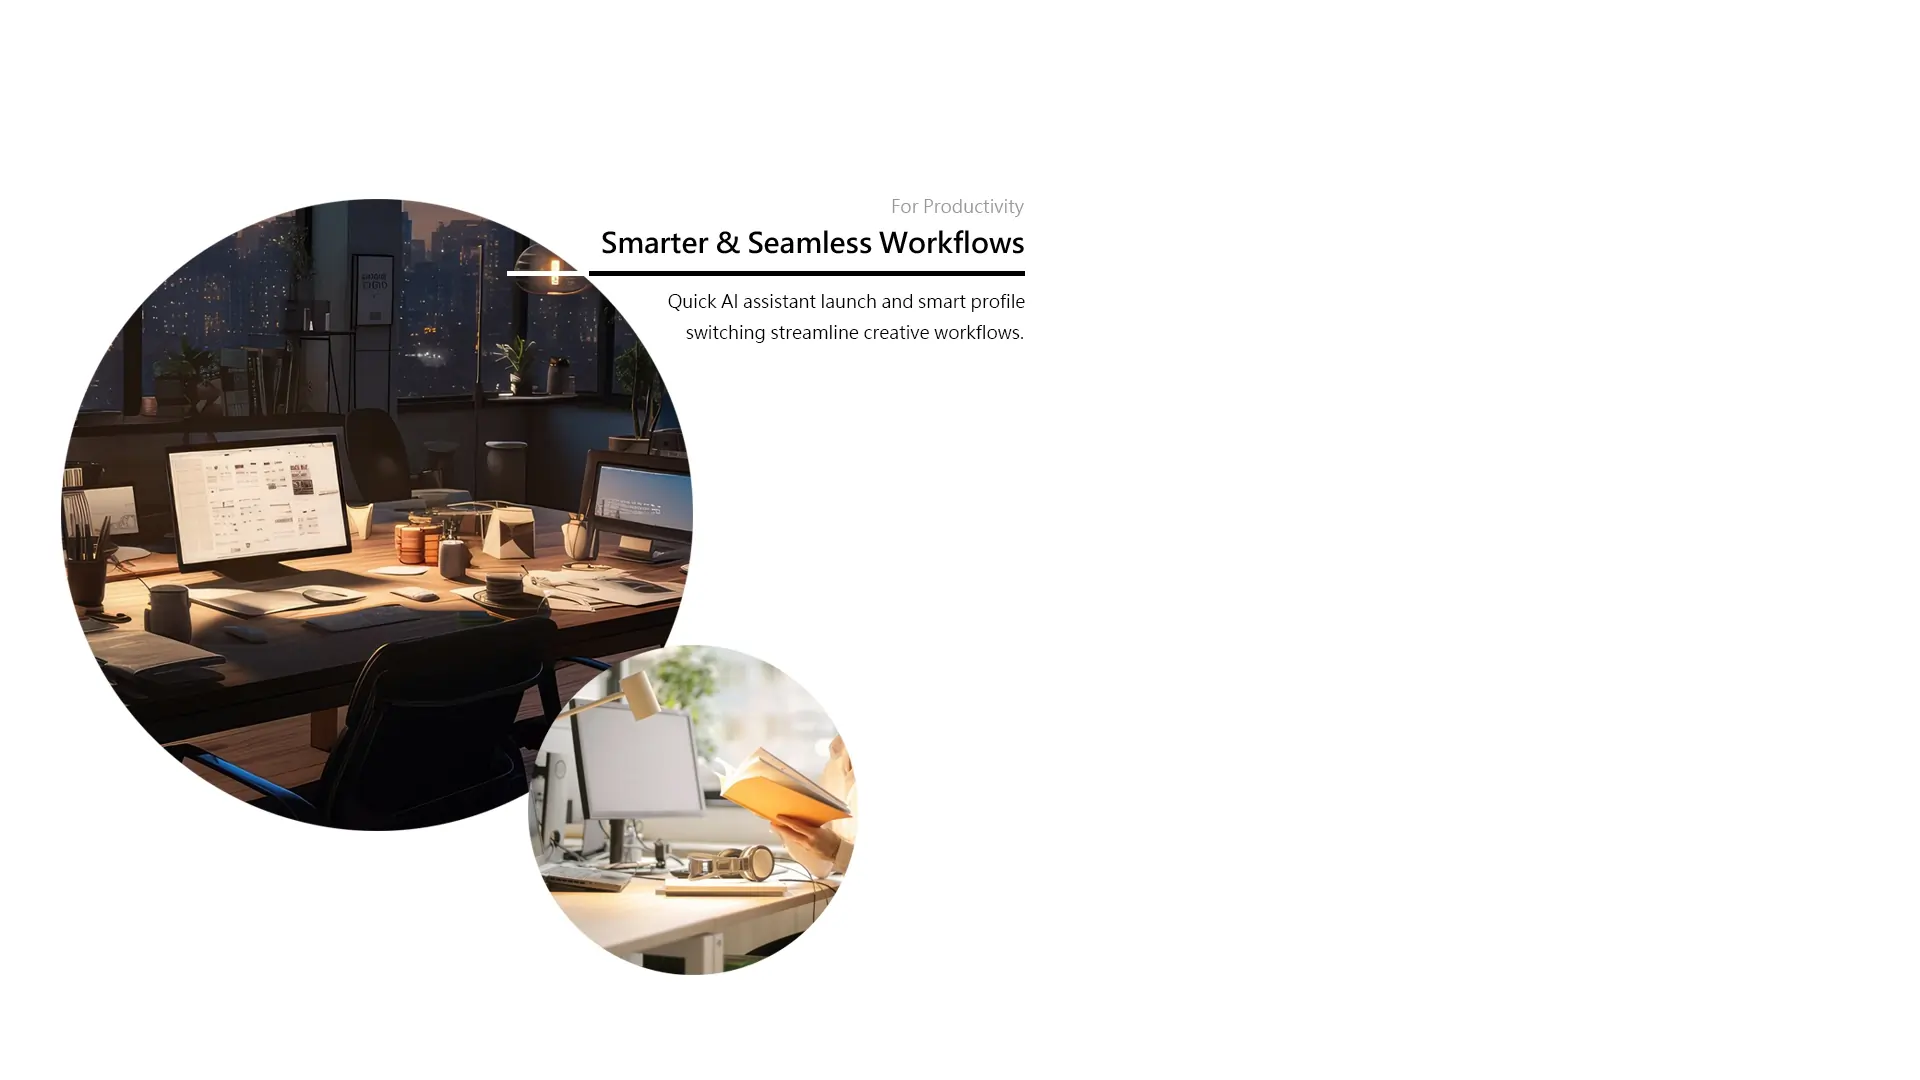
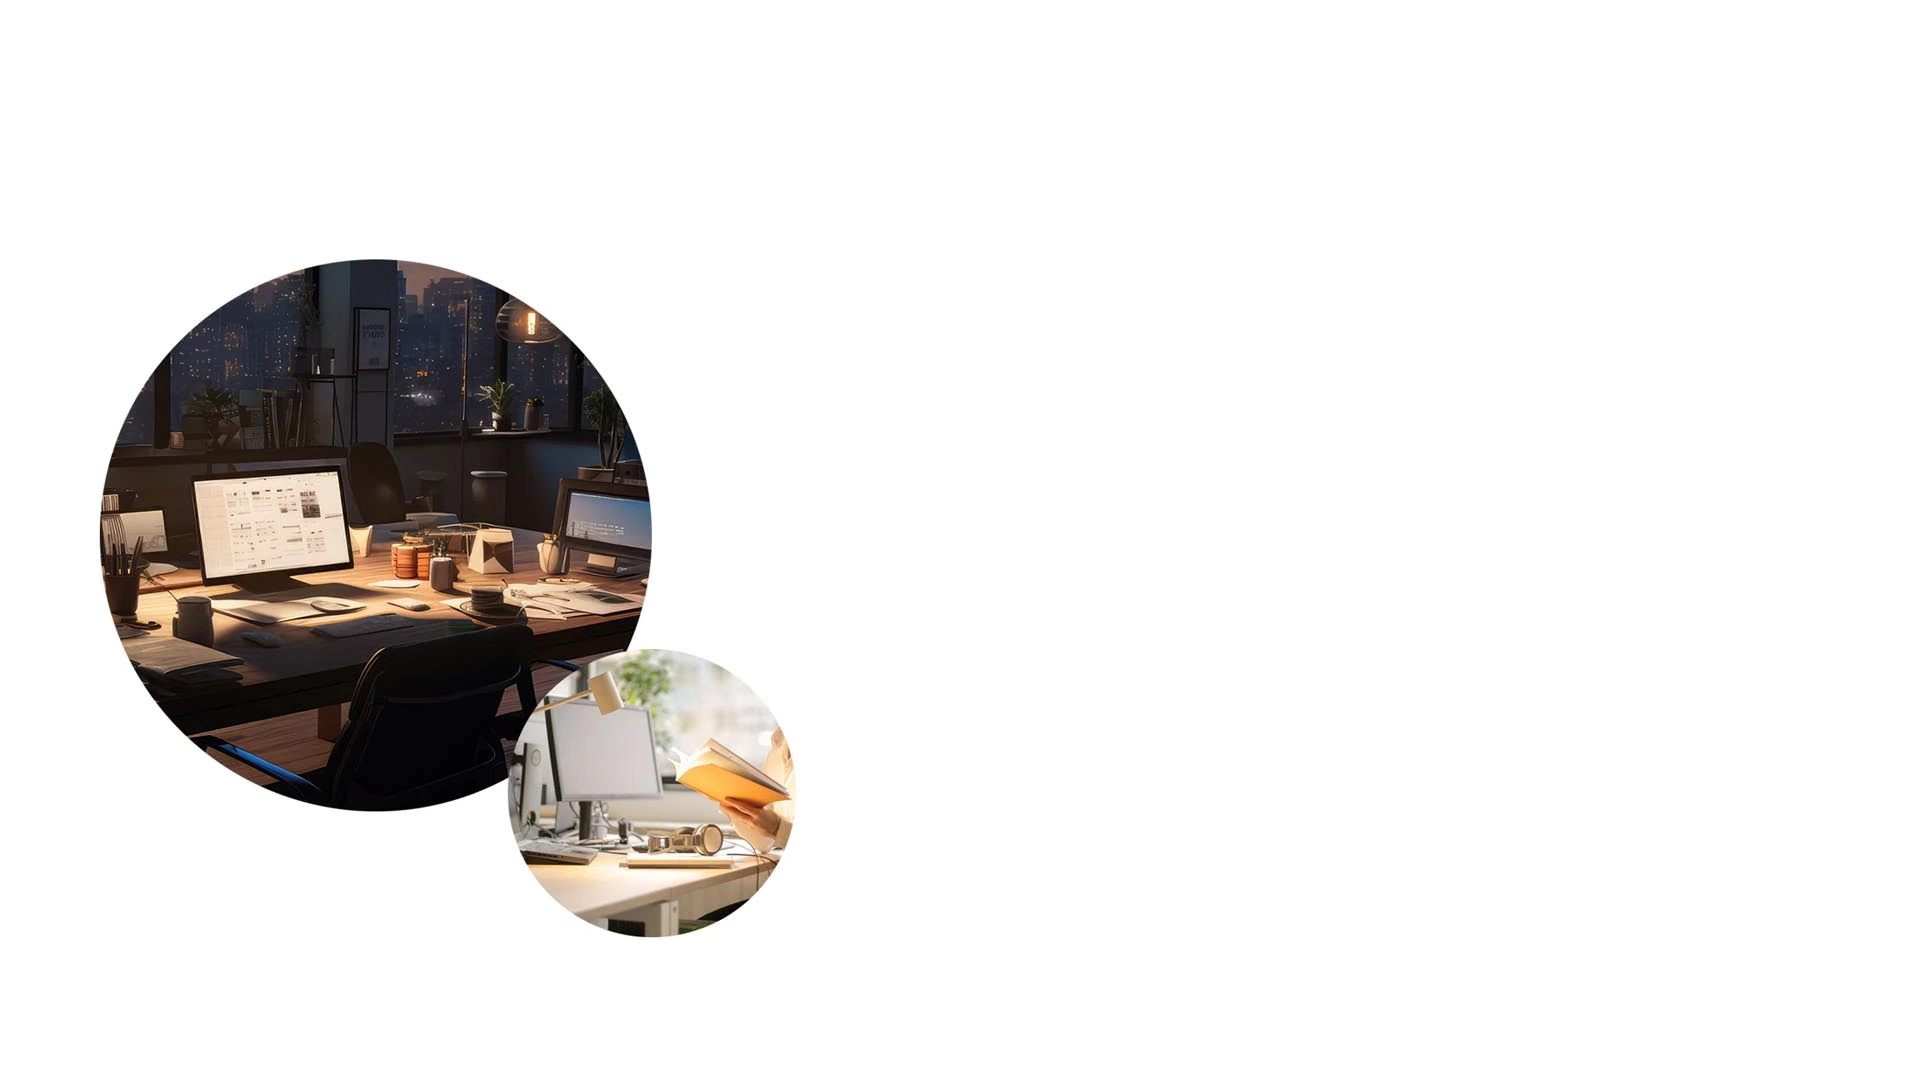
123

Changed region(s): [[0.0312, 0.1833, 0.5312, 0.9167]]

diff --git a/src/components/GameSection.jsx b/src/components/GameSection.jsx
@@ -1,39 +1,157 @@
-import React from "react";
+import React, { useEffect, useState } from "react";
 
 function GameSection({ triggerPreview }) {
+  const [isMobile, setIsMobile] = useState(false);
+
+  useEffect(() => {
+    const checkSize = () => setIsMobile(window.innerWidth <= 1150);
+    checkSize(); // 初始化
+    window.addEventListener("resize", checkSize);
+    return () => window.removeEventListener("resize", checkSize);
+  }, []);
+
   const handleScrollToTop = () => {
     window.scrollTo({ top: 0, left: 0, behavior: "smooth" });
   };
 
   return (
     <div
-      className="display-section d-flex align-items-center"
+      className="display-section d-flex "
       style={{
         height: "120vh",
-        position: "relative", // ⬅ 讓內部的 img 可以用 absolute
+        position: "relative",
         backgroundImage: 'url("./hex.webp")',
         backgroundSize: "cover",
         backgroundPosition: "center",
         backgroundRepeat: "no-repeat",
-        backgroundAttachment: "fixed"
+        backgroundAttachment: "fixed",
+        position: "relative", // 讓內部的 img 可以用 absolute
       }}
     >
-      {/* ⬇ 圖片固定在右下角，無空隙 */}
-      <img
-        src="./gamingbg-min.webp"
-        alt=""
-        style={{
-          position: "absolute",
-          bottom: 0,
-          right: 0,
-          width: "auto",     // ✅ 或設百分比寬度
-          height: "auto",
-          maxWidth: "100%",  // ✅ 防止超出
-          maxHeight: "100%", // ✅ 防止超出
-        }}
-      />
+      <div className="text-end text-light p-5 ms-auto " style={{ position: "absolute", right:"5%", bottom: "57%", maxWidth:"500px"}}>
+
+
+        {/* 主標題 */}
+        <p className="text-secondary">For Gaming</p>
+        <h2 className="fw-bold">Precise and Fast Controls</h2>
+
+        {/* 分隔線 */}
+        <hr
+          style={{
+            width: "100%",
+            margin: "1rem auto",
+            borderTop: "8px solid #fff",
+            opacity: 1,
+          }}
+        />
+
+        {/* 說明文字 */}
+        <p style={{ maxWidth: "600px", margin: "0 auto", fontSize: "1rem" }}>
+          Engineered for victory—lightning-fast, ultra-precise,
+          <br />
+          and built to dominate every game.
+        </p>
+      </div>
+      {isMobile ? (
+        // 📱 手機 / iPad (≤1150px)
+        <img
+          src="./gamingbg.webp"
+          alt=""
+          style={{
+            position: "absolute",
+            bottom: 0,
+            right: 0,
+            height: "80%",     // ✅ 高度吃 80%
+            width: "auto",
+            minHeight: "300px" // ✅ 避免過小
+          }}
+        />
+      ) : (
+        // 🖥 桌機 (>1150px)
+        <img
+          src="./gamingbg.png"
+          
+          style={{
+            position: "absolute",
+            bottom: 0,
+            right: 0,
+            width: "auto",     // ✅ 或設百分比寬度
+            height: "auto",
+            maxWidth: "100%",  // ✅ 防止超出
+            maxHeight: "100%", // ✅ 防止超出
+          }}
+        />
+      )}
     </div>
   );
 }
 
 export default GameSection;
+
+
+
+
+
+
+
+
+
+
+
+// import React from "react";
+
+// function GameSection({ triggerPreview }) {
+//   const handleScrollToTop = () => {
+//     window.scrollTo({ top: 0, left: 0, behavior: "smooth" });
+//   };
+
+//   return (
+//     <div
+//       className="display-section d-flex align-items-center"
+//       style={{
+//         height: "120vh",
+//         position: "relative", // ⬅ 讓內部的 img 可以用 absolute
+//         backgroundImage: 'url("./hex.webp")',
+//         backgroundSize: "cover",
+//         backgroundPosition: "center",
+//         backgroundRepeat: "no-repeat",
+//         backgroundAttachment: "fixed"
+//       }}
+//     >
+//       {/* ⬇ 圖片固定在右下角，無空隙 */}
+//       <img
+//         src="./gamingbg-min.webp"
+//         alt=""
+//         style={{
+//           position: "absolute",
+//           bottom: 0,
+//           right: 0,
+//           width: "auto",     // ✅ 或設百分比寬度
+//           height: "auto",
+//           maxWidth: "100%",  // ✅ 防止超出
+//           maxHeight: "100%", // ✅ 防止超出
+//         }}
+//       />
+//     </div>
+//   );
+// }
+
+// export default GameSection;
+
+
+
+
+// //加入ismoble 小於1150時 用
+// <img
+//         src="./gamingbg-min.webp"
+//         alt=""
+//         style={{
+//           position: "absolute",
+//           bottom: 0,
+//           right: 0,
+//           height: "80%",   // 📌 依螢幕高度佔比
+//           width: "auto",
+//           minHeight: "300px", // 📌 避免過小
+//         }}
+//       />
+

diff --git a/src/components/WorkSection.jsx b/src/components/WorkSection.jsx
@@ -1,15 +1,23 @@
-import React from "react";
+import React, { useEffect, useState } from "react";
 
 function WorkSection() {
+  const [isMobile, setIsMobile] = useState(false);
+
+  useEffect(() => {
+    const checkSize = () => setIsMobile(window.innerWidth <= 1150);
+    checkSize(); // 初始化
+    window.addEventListener("resize", checkSize);
+    return () => window.removeEventListener("resize", checkSize);
+  }, []);
 
   const handleLearnMore = () => {
     const element = document.querySelector(".display-section");
     window.scrollTo({
       top: element?.getBoundingClientRect().bottom,
       left: 0,
-      behavior: "smooth"
-    })
-  }
+      behavior: "smooth",
+    });
+  };
 
   return (
     <div
@@ -17,33 +25,63 @@ function WorkSection() {
       style={{
         backgroundImage: 'url("workbg.webp")',
         backgroundSize: "cover",
-        backgroundPosition: "center",
+        backgroundPosition: isMobile ? "center" : "center", // 📌 小螢幕靠左
         backgroundRepeat: "no-repeat",
         height: "120vh",
-       
-    
-       
+        position: "relative", // 讓內部元素可以絕對定位
       }}
     >
+         <div className="text-start text-dark p-5 ms-auto " style={{ position: "absolute", left: "35%", bottom: "50%", maxWidth:"450px"}}>
+
+
+
+<p className="text-secondary">For Productivity</p>
+<h2 className="fw-bold">Efficient Workflow</h2>
+
+
+<hr
+  style={{
+    width: "100%",
+    margin: "1rem auto",
+    borderTop: "8px solid black",
+    opacity: 1,
+  }}
+/>
+
+
+<p  style={{
+    maxWidth: "500px",
+    margin: "0 auto",
+    textAlign: "left",
+    fontSize: "1rem",
+    lineHeight: "1.6",
+  }}>
+  With voice input and built-in AI for instant assistant launch, combined with automatic profile detection and switching, your workflows stay seamless and efficient.
+</p>
+
+</div>
       <div className="container text-dark text-center">
         <div className="row">
-        <div className="col-md-4 me-auto position-relative" style={{ top: "0px",
-    left: "35%"
-      
-      }}>
+          <div
+            className="col-md-4 me-auto position-relative"
+            style={{ top: "0px", left: "35%" }}
+          >
             {/* <h2 className="title">header 2</h2>
             <p className="h3 fw-bold">Smart for Work</p>
             <p className="description">
-            Quick AI assistant launch and smart profile switching streamline creative workflows.
+              Quick AI assistant launch and smart profile switching streamline creative workflows.
             </p> */}
-            {/* <button className="btn btn-light mt-3" onClick={handleScrollToTop}>
-              TOP
-            </button> */}
           </div>
         </div>
       </div>
     </div>
-  )
+  );
 }
 
 export default WorkSection;
+
+
+
+
+
+

diff --git a/src/components/Jumbotron.jsx b/src/components/Jumbotron.jsx
@@ -33,9 +33,9 @@ function Jumbotron() {
   const desktopStyle = {
     display: "flex",
     flexDirection: "column",
-    justifyContent: "center", // 垂直置中
+   position: "relative",
     alignItems: "flex-start", // 水平靠左
-    paddingLeft: "45%",
+    paddingLeft: "41%",
     textAlign: "left",
     height: "100vh",
     width: "100%",
@@ -44,6 +44,7 @@ function Jumbotron() {
     backgroundPosition: "center",
     backgroundRepeat: "no-repeat",
     backgroundAttachment: "fixed",
+
   };
 
   // 📱 手機 / 平板樣式
@@ -66,23 +67,43 @@ function Jumbotron() {
       className="jumbotron-section wrapper text-md-end"
       style={isMobile ? mobileStyle : desktopStyle}
     >
-      <div>
-        <h1 className="text" style={{ fontSize: "9rem" }}>Xoskeleton</h1>
-        <p className="description mx-auto text-center fs-4">
-          From Office Battles to Gaming Arenas — One Mouse, Total Victory.
-        </p>
-
-        <div className="d-flex">
-          <ul className="ms-auto text list-unstyled gap-3 fs-4 text-end">
-            <li>Industrial Design</li>
-            <li>3D Web Design</li>
-            <li>3D Web Development</li>
-            <li>Solo Project • 2025</li>
-          </ul>
+      {isMobile ? (
+        <div>
+          <h1 className="text" style={{ fontSize: "9rem" }}>Xoskeleton</h1>
+          <p className="description mx-auto text-end fs-4">
+            From Office Battles to Gaming Arenas — One Mouse, Total Victory.
+          </p>
+  
+          <div className="d-flex mt-5">
+            <ul className="ms-auto text list-unstyled gap-3 fs-5 text-end">
+              <li>Industrial Design</li>
+              <li>3D Web Design</li>
+              <li>3D Web Development</li>
+              <li>Solo Project • 2025</li>
+            </ul>
+          </div>
         </div>
-      </div>
+      ) : (
+        <div style={{ position: "absolute", top: "20%" }}>
+          <h1 className="text" style={{ fontSize: "9rem" }}>Xoskeleton</h1>
+          <p className="description mx-auto text-end fs-4">
+            From Office Battles to Gaming Arenas — One Mouse, Total Victory.
+          </p>
+  
+          <div className="d-flex mt-5">
+            <ul className="ms-auto text list-unstyled gap-3 fs-5 text-end">
+              <li>Industrial Design</li>
+              <li>3D Web Design</li>
+              <li>3D Web Development</li>
+              <li>Solo Project • 2025</li>
+            </ul>
+          </div>
+        </div>
+      )}
     </div>
   );
+  
+
 }
 
 export default Jumbotron;
